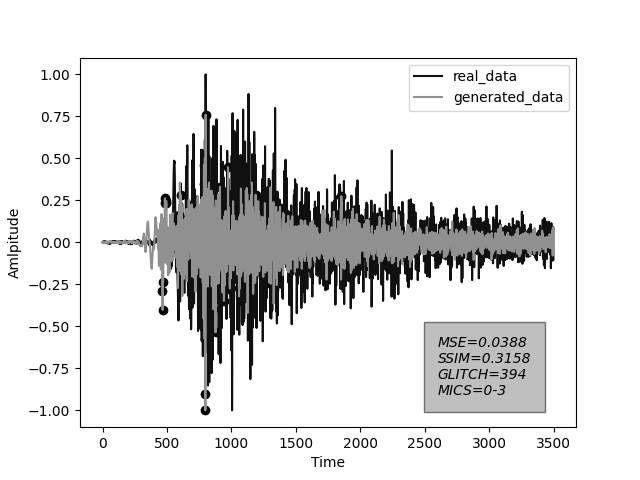
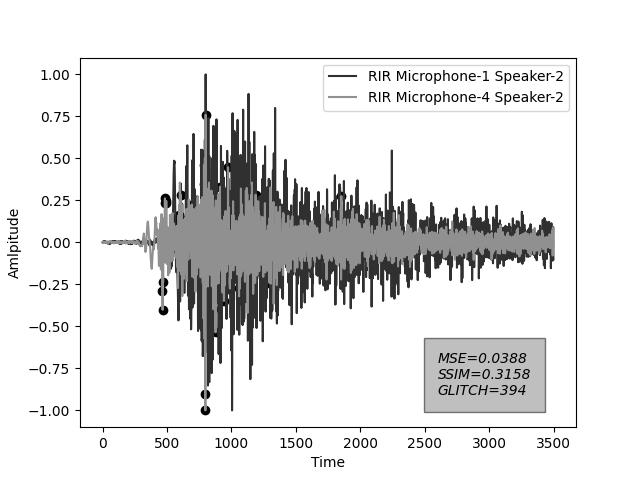
MP

Changed region(s): [[0.25, 0.1562, 0.875, 0.7812], [0.6562, 0.6562, 0.875, 0.8438], [0.5, 0.125, 0.875, 0.2188]]

diff --git a/03.data_generation/rir-reports/GTURIR/microphoneAnalysis.py b/03.data_generation/rir-reports/GTURIR/microphoneAnalysis.py
@@ -128,19 +128,19 @@ def allignHorizontally(generated_data,real_data):
          # test edildi problem yok :)
          return generated_data,real_data
          
-def plotWav(real_data,generated_data,MSE,SSIM,glitch_points,mics,show=False,saveToPath=None):
+def plotWav(real_data,generated_data,MSE,SSIM,glitch_points,mics,spks,show=False,saveToPath=None):
      plt.clf()
      minValue=np.min(real_data)
      minValue2=np.min(generated_data)
      if minValue2 < minValue:
         minValue=minValue2
 
-     plt.text(2600, minValue+abs(minValue)/11, f"MSE={float(MSE):.4f}\nSSIM={float(SSIM):.4f}\nGLITCH={int(len(glitch_points))}\nMICS={mics}", style='italic',
+     plt.text(2600, minValue+abs(minValue)/11, f"MSE={float(MSE):.4f}\nSSIM={float(SSIM):.4f}\nGLITCH={int(len(glitch_points))}", style='italic',
         bbox={'facecolor': 'gray', 'alpha': 0.5, 'pad': 10})
 
 
-     plt.plot(real_data,color='#101010', label='real_data')
-     plt.plot(generated_data,color='#909090', label='generated_data')
+     plt.plot(real_data,color='#303030', label='RIR Microphone-'+mics.split("-")[0]+" Speaker-"+spks.split("-")[0])
+     plt.plot(generated_data,color='#909090', label='RIR Microphone-'+mics.split("-")[1]+" Speaker-"+spks.split("-")[1])
      plt.xlabel('Time')
      plt.ylabel('Amlpitude')
      plt.legend(loc = "upper right")
@@ -276,10 +276,13 @@ for selectedRoomId in list_of_room_ids:
                   glitch_points=getGlitchPoints(rir_data_1,rir_data_2)
                   mD["glitch_point_count"]=len(glitch_points)
                   if micNo_1 < micNo_2:
-                     mD["mics"]=f"{micNo_1}-{micNo_2}"
+                     mD["mics"]=f"{int(micNo_1)+1}-{int(micNo_2)+1}"
+                     mD["spks"]=f"{int(physicalSpeakerNo_1)+1}-{int(physicalSpeakerNo_2)+1}"
                   else:
-                     mD["mics"]=f"{micNo_2}-{micNo_1}"
- 
+                     mD["mics"]=f"{int(micNo_2)+1}-{int(micNo_1)+1}"
+                     mD["spks"]=f"{int(physicalSpeakerNo_2)+1}-{int(physicalSpeakerNo_1)+1}"
+
+
                   if mD["mics"] not in micPairSimilarities:
                      micPairSimilarities[mD["mics"]]={}
                      micPairSimilarities[mD["mics"]]["MSE"]=[]
@@ -290,7 +293,7 @@ for selectedRoomId in list_of_room_ids:
                   micPairSimilarities[mD["mics"]]["SSIM"].append(mD["ssim"])
                   micPairSimilarities[mD["mics"]]["GLITCH"].append(mD["glitch_point_count"])
 
-                  own_record=[rir_data_1,rir_data_2,MSE,SSIM,glitch_points,mD["mics"]]
+                  own_record=[rir_data_1,rir_data_2,MSE,SSIM,glitch_points,mD["mics"],mD["spks"]]
 
                   if maxSSIM < mD["ssim"]:
                      maxSSIM=mD["ssim"]
@@ -343,12 +346,12 @@ print(output)
 
 
 
-plotWav(maxSSIMRecord[0],maxSSIMRecord[1],maxSSIMRecord[2],maxSSIMRecord[3],maxSSIMRecord[4],maxSSIMRecord[5],saveToPath="maxSSIM.png")
-plotWav(minSSIMRecord[0],minSSIMRecord[1],minSSIMRecord[2],minSSIMRecord[3],minSSIMRecord[4],minSSIMRecord[5],saveToPath="minSSIM.png")
-plotWav(maxMSERecord[0],maxMSERecord[1],maxMSERecord[2],maxMSERecord[3],maxMSERecord[4],maxMSERecord[5],saveToPath="maxMSE.png")
-plotWav(minMSERecord[0],minMSERecord[1],minMSERecord[2],minMSERecord[3],minMSERecord[4],minMSERecord[5],saveToPath="minMSE.png")
-plotWav(maxGlitchRecord[0],maxGlitchRecord[1],maxGlitchRecord[2],maxGlitchRecord[3],maxGlitchRecord[4],maxGlitchRecord[5],saveToPath="maxGlitch.png")
-plotWav(minGlitchRecord[0],minGlitchRecord[1],minGlitchRecord[2],minGlitchRecord[3],minGlitchRecord[4],minGlitchRecord[5],saveToPath="minGlitch.png")
+plotWav(maxSSIMRecord[0],maxSSIMRecord[1],maxSSIMRecord[2],maxSSIMRecord[3],maxSSIMRecord[4],maxSSIMRecord[5],maxSSIMRecord[6],saveToPath="maxSSIM.png")
+plotWav(minSSIMRecord[0],minSSIMRecord[1],minSSIMRecord[2],minSSIMRecord[3],minSSIMRecord[4],minSSIMRecord[5],minSSIMRecord[6],saveToPath="minSSIM.png")
+plotWav(maxMSERecord[0],maxMSERecord[1],maxMSERecord[2],maxMSERecord[3],maxMSERecord[4],maxMSERecord[5],maxMSERecord[6],saveToPath="maxMSE.png")
+plotWav(minMSERecord[0],minMSERecord[1],minMSERecord[2],minMSERecord[3],minMSERecord[4],minMSERecord[5],minMSERecord[6],saveToPath="minMSE.png")
+plotWav(maxGlitchRecord[0],maxGlitchRecord[1],maxGlitchRecord[2],maxGlitchRecord[3],maxGlitchRecord[4],maxGlitchRecord[5],maxGlitchRecord[6],saveToPath="maxGlitch.png")
+plotWav(minGlitchRecord[0],minGlitchRecord[1],minGlitchRecord[2],minGlitchRecord[3],minGlitchRecord[4],minGlitchRecord[5],minGlitchRecord[6],saveToPath="minGlitch.png")
 
 
 
